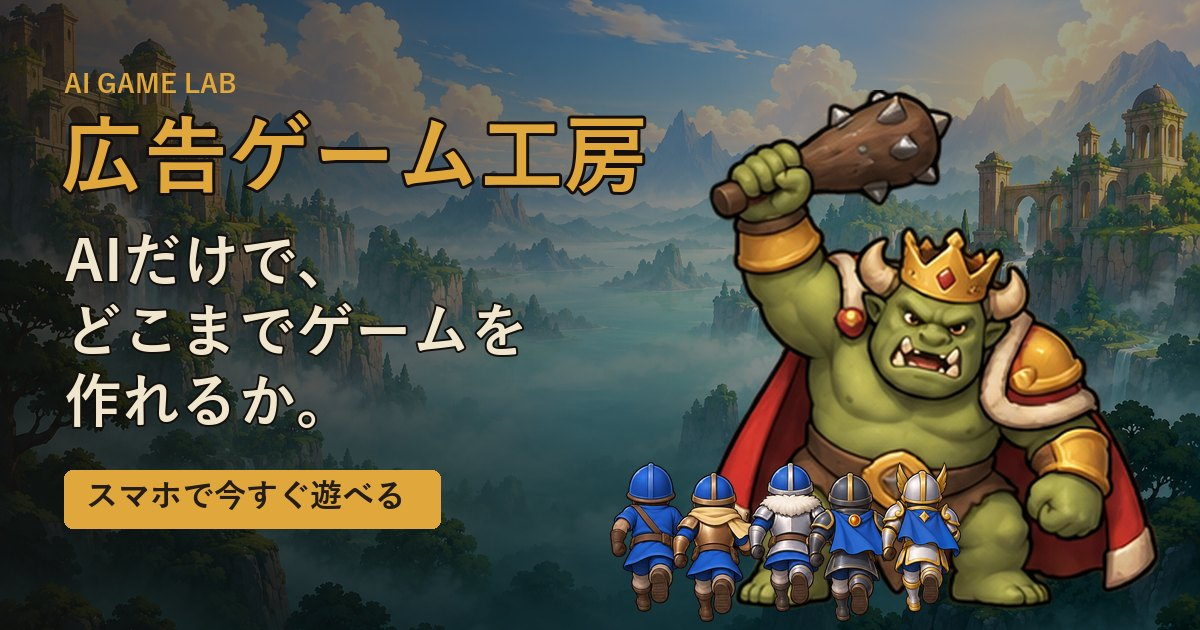
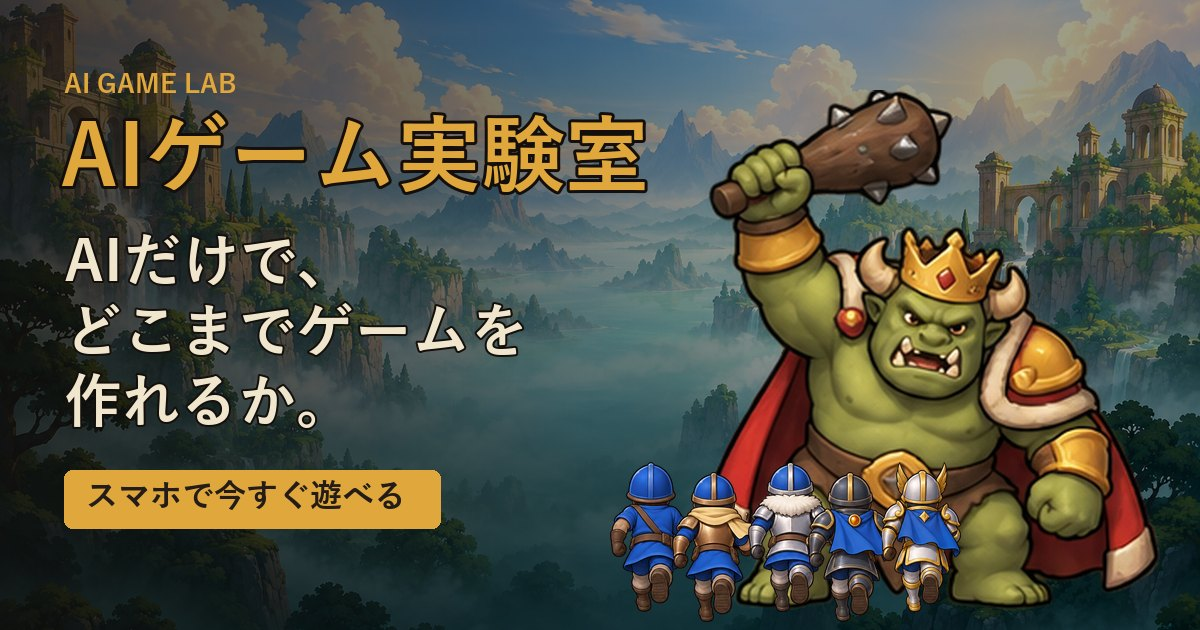
サイト名を「AIゲーム実験室」に変更

Changed region(s): [[0.0308, 0.181, 0.555, 0.3317]]

diff --git a/index.html b/index.html
@@ -3,13 +3,13 @@
 <head>
 <meta charset="utf-8">
 <meta name="viewport" content="width=device-width,initial-scale=1,viewport-fit=cover">
-<title>広告ゲーム工房｜AIだけで、どこまでゲームを作れるか</title>
+<title>AIゲーム実験室｜AIだけで、どこまでゲームを作れるか</title>
 <meta name="description" content="スマホ広告でよく見る「あのゲーム」を、AIだけで作ってみる実験。プログラムも絵も音もAI、人は言葉で注文しただけ。スマホですぐ遊べます。">
 <meta name="theme-color" content="#241c18">
 <!-- LINE・SNSでリンクを送ったときのプレビュー -->
 <meta property="og:type" content="website">
 <meta property="og:url" content="https://machino-ai.jp/ad-games/">
-<meta property="og:title" content="広告ゲーム工房｜AIだけで、どこまでゲームを作れるか">
+<meta property="og:title" content="AIゲーム実験室｜AIだけで、どこまでゲームを作れるか">
 <meta property="og:description" content="スマホ広告でよく見る「あのゲーム」を、AIだけで作ってみる実験。プログラムも絵も音もAI。スマホですぐ遊べます。">
 <meta property="og:image" content="https://machino-ai.jp/ad-games/assets/og-image.jpg">
 <meta property="og:image:width" content="1200">
@@ -100,7 +100,7 @@
 <body>
 <main>
   <div class="eyebrow">AI Game Lab<span class="lab">実験中</span></div>
-  <h1>広告ゲーム工房</h1>
+  <h1>AIゲーム実験室</h1>
   <p class="catch">AIだけで、<br>どこまでゲームを作れるか。</p>
   <p class="lede">スマホの広告でよく見る「あのゲーム」を、<strong>AIだけで作ってみる実験</strong>です。プログラムも、絵も、音も、難しさの調整もAI。人がやったのは、遊んでみて「もっとこうして」と言葉で頼むことだけ。どこまでちゃんと遊べるか、ぜひ試してみてください。</p>
   <a class="jump" href="#games">さっそく遊ぶ ↓</a>
@@ -144,7 +144,7 @@
     <p>遊んだら、感想や「ここが変だった」をぜひ教えてください。それがそのまま次の注文になります。</p>
   </div>
 
-  <footer>広告ゲーム工房 — AIだけでゲームを作る実験</footer>
+  <footer>AIゲーム実験室 — AIだけで、どこまでゲームを作れるか</footer>
 </main>
 </body>
 </html>

diff --git a/README.md b/README.md
@@ -1,4 +1,4 @@
-# 広告ゲーム工房（ad-games）
+# AIゲーム実験室（ad-games）
 
 スマホ広告でよく見るゲームを、ブラウザで遊べるように再現したゲーム集です。
 
